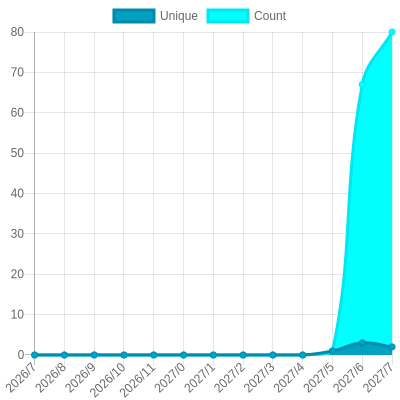
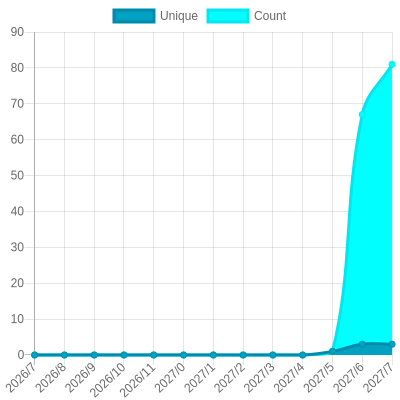
Update views

diff --git a/readme/1270148328/year.md b/readme/1270148328/year.md
@@ -23,10 +23,10 @@
 			<code>2026/8/1</code>
 		</td>
 		<td>
-			<code>2</code>
+			<code>3</code>
 		</td>
 		<td>
-			<code>80</code>
+			<code>81</code>
 		</td>
 	</tr>
 	<tr>
@@ -164,7 +164,7 @@
 </table>
 
 </details>
-<small><i>Last updated on 2026/8/7 1:10 PM UTC</i></small>
+<small><i>Last updated on 2026/8/7 7:01 PM UTC</i></small>
 
 ## ✂Copy and 📋 Paste
 ### SVG Badge

diff --git a/README.md b/README.md
@@ -149,7 +149,7 @@ The project created and maintained by [gayanvoice](https://github.com/gayanvoice
 	</tr>
 </table>
 
-<small><i>Last updated on 2026/8/7 1:11 PM UTC</i></small>
+<small><i>Last updated on 2026/8/7 7:02 PM UTC</i></small>
 
 ## ✂Copy and 📋 Paste
 ### Total Views Badge

diff --git a/readme/1019566027/year.md b/readme/1019566027/year.md
@@ -164,7 +164,7 @@
 </table>
 
 </details>
-<small><i>Last updated on 2026/8/7 1:10 PM UTC</i></small>
+<small><i>Last updated on 2026/8/7 7:01 PM UTC</i></small>
 
 ## ✂Copy and 📋 Paste
 ### SVG Badge

diff --git a/readme/1019745206/year.md b/readme/1019745206/year.md
@@ -164,7 +164,7 @@
 </table>
 
 </details>
-<small><i>Last updated on 2026/8/7 1:11 PM UTC</i></small>
+<small><i>Last updated on 2026/8/7 7:01 PM UTC</i></small>
 
 ## ✂Copy and 📋 Paste
 ### SVG Badge

diff --git a/readme/1284984272/year.md b/readme/1284984272/year.md
@@ -164,7 +164,7 @@
 </table>
 
 </details>
-<small><i>Last updated on 2026/8/7 1:11 PM UTC</i></small>
+<small><i>Last updated on 2026/8/7 7:02 PM UTC</i></small>
 
 ## ✂Copy and 📋 Paste
 ### SVG Badge

diff --git a/readme/1310335924/year.md b/readme/1310335924/year.md
@@ -164,7 +164,7 @@
 </table>
 
 </details>
-<small><i>Last updated on 2026/8/7 1:11 PM UTC</i></small>
+<small><i>Last updated on 2026/8/7 7:02 PM UTC</i></small>
 
 ## ✂Copy and 📋 Paste
 ### SVG Badge

diff --git a/readme/877737208/year.md b/readme/877737208/year.md
@@ -164,7 +164,7 @@
 </table>
 
 </details>
-<small><i>Last updated on 2026/8/7 1:11 PM UTC</i></small>
+<small><i>Last updated on 2026/8/7 7:01 PM UTC</i></small>
 
 ## ✂Copy and 📋 Paste
 ### SVG Badge

diff --git a/readme/945964477/year.md b/readme/945964477/year.md
@@ -164,7 +164,7 @@
 </table>
 
 </details>
-<small><i>Last updated on 2026/8/7 1:10 PM UTC</i></small>
+<small><i>Last updated on 2026/8/7 7:01 PM UTC</i></small>
 
 ## ✂Copy and 📋 Paste
 ### SVG Badge

diff --git a/readme/992194885/year.md b/readme/992194885/year.md
@@ -164,7 +164,7 @@
 </table>
 
 </details>
-<small><i>Last updated on 2026/8/7 1:11 PM UTC</i></small>
+<small><i>Last updated on 2026/8/7 7:01 PM UTC</i></small>
 
 ## ✂Copy and 📋 Paste
 ### SVG Badge
